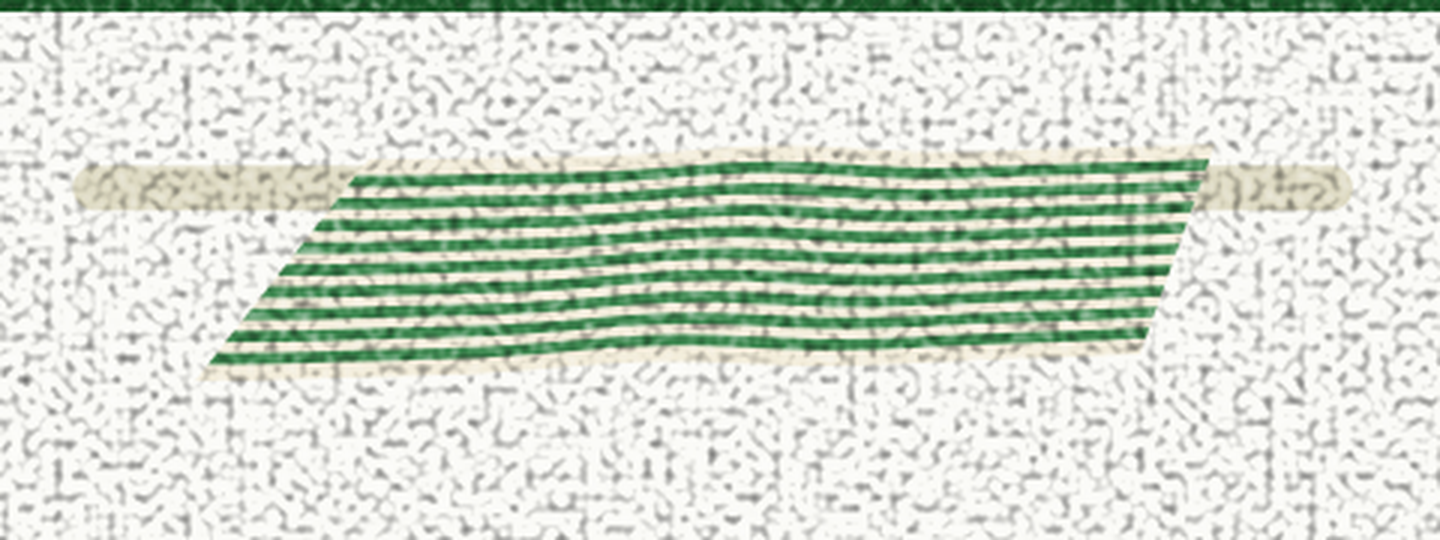
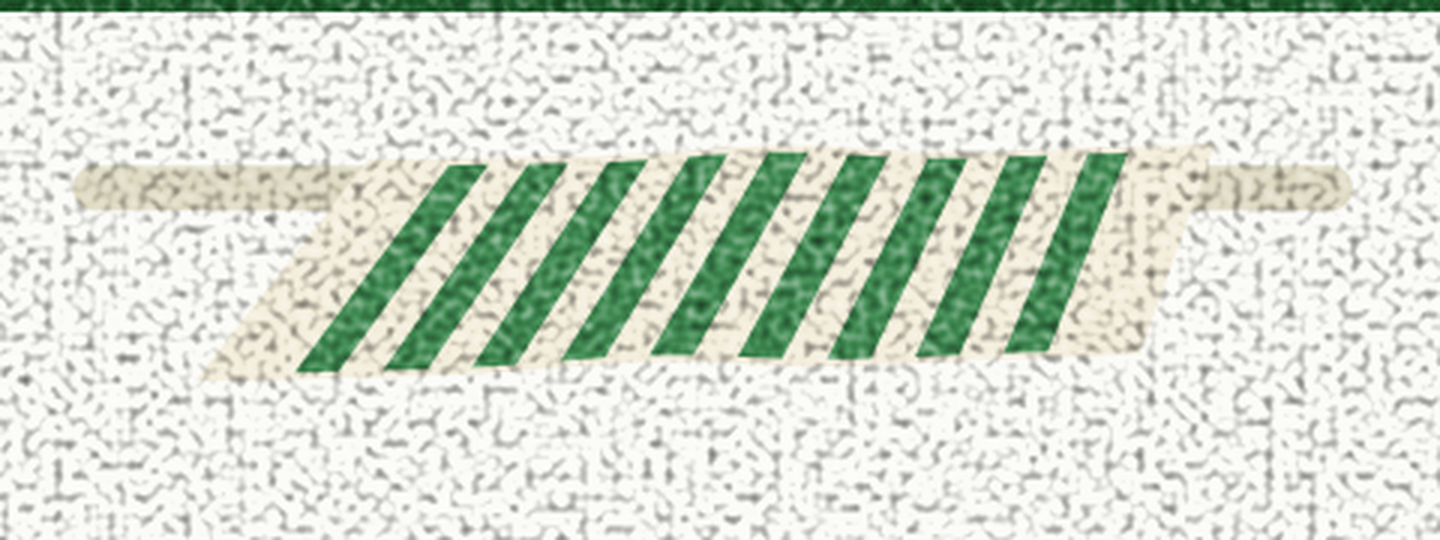
Serviette : le sens de pose — rayures en travers, lisières unies
Les rayures d'une vraie serviette courent en travers de sa largeur ; posée
dans la longueur, elles deviennent des bandes transversales à l'image. Je
les avais couchées le long du tissu, à contresens.

Chaque bande est un quadrilatère à u constant, du bord près au bord loin de
la géométrie relevée ; ses coins portent le pli de leur endroit, si bien
que les bandes restent droites mais que leur ligne de pose monte et descend
avec le tissu — c'est le comportement d'un tissu rayé posé sur des bosses.
Une lisière unie à chaque bout, l'ourlet, avant que la trame commence :
dix-sept bandes égales, neuf vertes. Un premier réglage à treize bandes
faisait un passage piéton.

Claude-Session: https://claude.ai/code/session_015un2t2xRvThoKm9jAu6CXK

Changed region(s): [[0.125, 0.2667, 0.8438, 0.7111]]

diff --git a/illustration/personnages.py b/illustration/personnages.py
@@ -260,20 +260,39 @@ def serviette_rayee(ox, oy, k=1.0, indent=4):
     def ligne(v):
         return [point(i / float(N), v) for i in range(N + 1)]
 
-    def ruban(v0, v1, couleur):
-        haut = ligne(v1)
-        bas = ligne(v0)
+    def contour(couleur):
+        haut = ligne(1.0)
+        bas = ligne(0.0)
         d = _catmull(haut)
         d += u" L%.1f %.1f" % bas[-1]
         d += _catmull(list(reversed(bas))).replace("M", "L", 1)
         return u'<path d="%s Z" fill="%s"/>' % (d, couleur)
 
-    out = [ruban(0.0, 1.0, CREME)]
-    n = 9
-    demi = 0.52 / (2.0 * (n + 1))
-    for i in range(1, n + 1):
-        v = i / float(n + 1)
-        out.append(ruban(v - demi, v + demi, VERT_OBJET))
+    # LE SENS DE POSE. Les rayures d'une serviette courent EN TRAVERS de sa
+    # largeur ; posee dans la longueur, elles deviennent des bandes
+    # TRANSVERSALES a l'image - je les avais couchees le long du tissu, a
+    # contresens. Chaque bande est un quadrilatere a u constant, du bord
+    # pres au bord loin ; elle MONTE ET DESCEND avec le pli de son endroit,
+    # puisque ses coins portent pli(u) : c'est ainsi qu'un tissu raye pose
+    # sur des bosses se comporte - les bandes restent droites, leur ligne
+    # de pose ondule.
+    def bande(u0, u1, couleur):
+        p1, p2 = point(u0, 0.03), point(u0, 0.97)
+        p3, p4 = point(u1, 0.97), point(u1, 0.03)
+        return (u'<path d="M%.1f %.1f L%.1f %.1f L%.1f %.1f L%.1f %.1f Z" '
+                u'fill="%s"/>' % (p1[0], p1[1], p2[0], p2[1],
+                                  p3[0], p3[1], p4[0], p4[1], couleur))
+
+    out = [contour(CREME)]
+    # LES LISIERES : une bande unie a chaque bout - l'ourlet du tissu -
+    # puis treize bandes alternees a trame egale, sept vertes.
+    u_min, u_max = 0.10, 0.90
+    n_bandes = 17
+    pas_u = (u_max - u_min) / n_bandes
+    for i in range(n_bandes):
+        if i % 2 == 0:
+            out.append(bande(u_min + i * pas_u, u_min + (i + 1) * pas_u,
+                             VERT_OBJET))
 
     return u"%s<g inkscape:label=\"Serviette rayee\">\n%s\n%s</g>" % (
         e, "\n".join(u"%s  %s" % (e, x) for x in out), e)

diff --git a/illustration/METHODE.md b/illustration/METHODE.md
@@ -201,6 +201,14 @@ bâton.
 référence fait court (≈ 0,1–0,25 de la bande) et dense (≈ 4,6 px). C'est la
 proximité des brins qui fait la matière, pas leur taille.
 
+**Le sens de pose d'une serviette : rayures en travers.** Les rayures d'une
+serviette courent en travers de sa largeur ; posée dans la longueur, elles
+deviennent des bandes **transversales** à l'image — les coucher le long du
+tissu était un contresens. Chaque bande est un quadrilatère à u constant du
+bord près au bord loin ; elle monte et descend avec le pli de son endroit —
+les bandes restent droites, leur ligne de pose ondule. Lisières unies aux
+deux bouts (l'ourlet), 17 bandes à trame égale, 9 vertes.
+
 **Un tissu, c'est du désordre cohérent.** Les rayures droites faisaient un
 carrelage ; le mouvement juste est UN SEUL champ de plis d(u), commun au
 contour et aux neuf rayures — c'est le même pli qui les soulève toutes.
